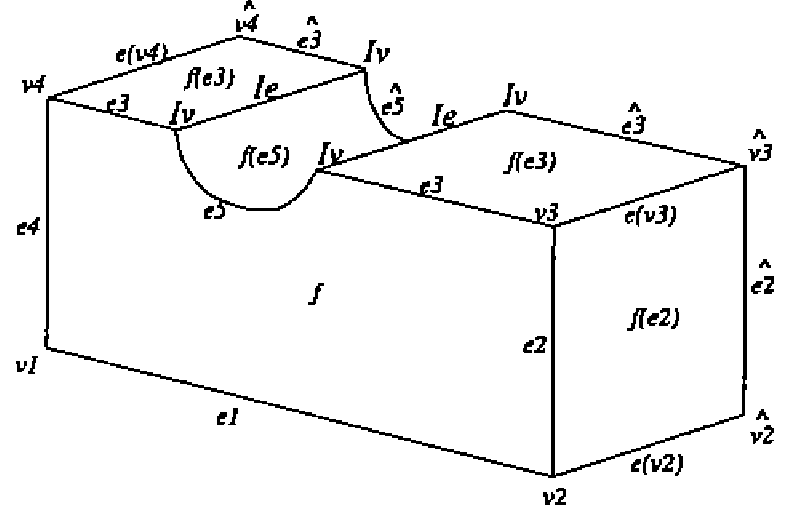
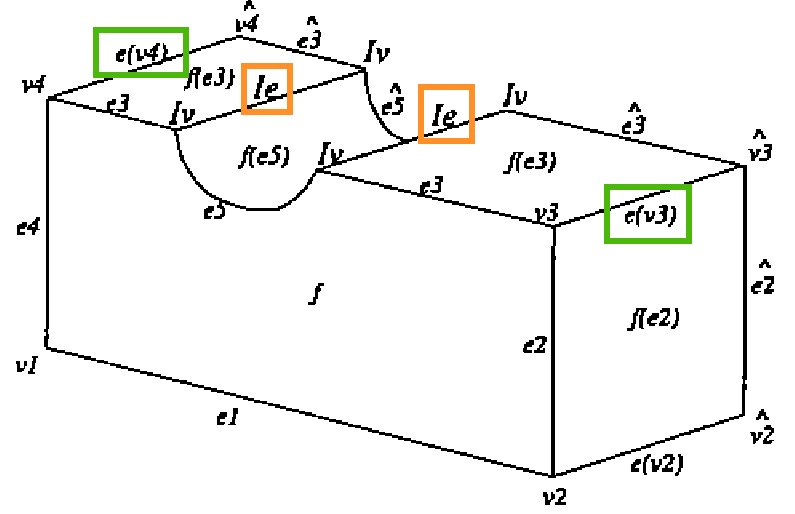
almost done!

diff --git a/manuscript/parts/chapitres-reevaluation/etat-art/section-reevaluation.tex b/manuscript/parts/chapitres-reevaluation/etat-art/section-reevaluation.tex
@@ -724,8 +724,8 @@ agrégats que les coques. %
 Il existe donc, dans les systèmes de modélisation paramétrique un manque à
 combler en ce qui concerne la nomination des volumes, agrégats et autres entités
 de dimension supérieures aux faces. %
-Permettre leurs nomination permettrait aux utilisateurs de logiciel CAO d'avoir
-plus de libertés dans leurs processus constructifs. %
+Permettre leur nomination offrirait aux utilisateurs de logiciels CAO
+une plus grande marge de man\oe uvre dans leurs processus constructifs. %
 
 
 \subsubsection{Systèmes de nominations persistantes}
@@ -752,7 +752,8 @@ persistante. %
 Le nom d'une face, \(faceId\), est défini par~:
 \[FaceId(f) = [stepId,faceIndex,surfaceType]\] %
 où \(stepId\) est le numéro d'application de l'opération qui crée \(f\),
-\(faceIndex\) l'index de \(f\) et \(surfaceType\) le type de surface de \(f\). %
+\(faceIndex\) l'index de \(f\) et \(surfaceType\) le type de surface de \(f\) (plan, tore,…).
+\xavier{pour Maxime : donne des exemples de types de surfaces.}%
 
 Le nom d'une arête, \(edgeId\), est défini par~:
 \[EdgeId(e) = [adjFaceIds,endFaceIds_{0,1},edgeIntersCode]\] %
@@ -760,9 +761,8 @@ où \(adjFaceIds\) est une liste des faces incidentes à \(e\), cette liste est
 ordonnée selon un parcours de voisinage~; \(endFaceIds_{0}\) (respectivement
 \(endFaceIds_{1}\)) est l'ensemble des faces à l'extrémité \(0\) (respectivement
 \(1\)) de \(e\)~; et \(edgeIntersCode\) un code d'intersection basé sur la
-position relative, et non absolue, des faces incidentes à \(e\), ce qui rend le
-code insensible aux transformations telles que le déplacement et le changement
-d'échelle. %
+position relative des faces incidentes à \(e\), ce qui rend le code insensible
+aux transformations telles que le déplacement et le changement d'échelle. %
 
 Le nom d'un sommet, \(vertexId\), est défini par~:
 \[VertexId(v) = [adjFaceIds,vertexIntersCodes]\] %
@@ -803,8 +803,6 @@ Il propose un système de nomination persistante, un DAG pour suivre l'évolutio
 des faces et un mécanisme d'appariement des entités. %
 Toutefois, ce système présente des inconvénients. %
 Chaque type d'entité topologique à un schéma de nomination différent, ce qui en fait un système compliqué à mettre en \oe uvre et qui n'est pas généralisable en dimensions. %
-En effet, pour les dimensions d'ordre supérieur, il faudrait changer tout le
-schéma de nomination. %
 L'appariement s'appuie en partie sur le voisinage (pour rappel des faces) pour estimer la similitude entre deux entités. %
 Une limite de cette approche est le cas où tout le voisinage d'une entité serait modifié. %
 Dans ce cas, il n'est pas certain qu'il soit possible de poursuivre la réévaluation. %
@@ -839,9 +837,9 @@ opérations~:
 	\label{fig:etat-art-reevaluation-systemes-capoylease-generated-entities}
 \end{figure}
 
-Ce système propose que les entités issues d'une extrusion, des entités
-invariantes, soient nommées par rapport à leur ancêtre invariant dans le
-profil. %
+Ce système propose que les entités issues d'une extrusion% , des entités
+% invariantes,
+soient nommées par rapport à leur ancêtre invariant dans le profil. %
 Prenons, l'exemple illustré dans la
 figure~\ref{fig:etat-art-reevaluation-systemes-capoylease-generated-entities} et
 plus particulièrement le profil
@@ -849,10 +847,12 @@ plus particulièrement le profil
 extrusion
 (figure~\ref{fig:etat-art-reevaluation-systemes-capoylease-extruded-part}). %
 Les entités du profil sont nommées par type d'entité et de manière incrémentale,
-prenons, par exemple, l'arête \(e_{1}\) et le sommet \(v_{3}\). %
-Suite à l'extrusion, la face de côté générée à partir de \(e_{1}\) est nommée
-\(f(e_{1})\) et l'arête générée à partir de \(v_{3}\) est nommée \(e(v_{3})\). %
-
+prenons, par exemple, la face \(f\), l'arête \(e_{3}\) et le sommet \(v_{2}\). %
+Suite à l'extrusion, la face opposée à \(f\) et notée \(\hat{f}\) et la face
+d'arrivée de l'extrusion, la face de côté générée à partir de \(e_{3}\) est nommée
+\(f(e_{3})\) et l'arête générée à partir de \(v_{2}\) est nommée \(e(v_{2})\). %
+\xavier{3. La figure est FAUSSE ! La face sur le côté droit est étiquetée f(e4)
+	alors qu'elle est issue de e2 => refaire la figure correctement.}
 \begin{figure}[htb!]
 	\centering
 	\includegraphics[height=150pt]{capoyleas-cut-part}
@@ -894,7 +894,9 @@ Le contexte est étendu de cette manière jusqu'à trouver une classe d'équival
 unique qui permette alors de discriminer une entité dont le nom est partagé. %
 Prenons, par exemple, les deux arêtes \(I_e\) de la
 figure~\ref{fig:etat-art-reevaluation-systemes-capoyleas-cut-part}. %
-À terme, pour la première entité \(I_{e}\), nous obtenons~:
+\xavier{De manière générale, sur la figure, il faudrait faire ressortir les
+	entités que tu évoques. Par exemple, on a du mal à repérer cette arête
+	\(I_e\).} À terme, pour la première entité \(I_{e}\), nous obtenons~:
 \begin{flalign*}
 	I_{e} & :                                                                                                       \\
 	      & [0,I_{e},1],                                                                                            \\
@@ -1054,12 +1056,6 @@ impossible, à généraliser dans d'autres dimensions. %
 
 \subsubsection*{Bidarra}
 
-% Bidarra et al.~\cite{bidarra2005feature} estiment qu'une difficulté majeure dans
-% les systèmes de nomination existants est le fait nommer des entités qui peuvent
-% disparaître lors de la réévaluation. %
-% Ainsi, les auteurs proposent un système de nomination basé sur les
-% caractéristiques de forme dans lequel un nom persistant est maintenu quelle que
-% soit la spécification paramétrique réévaluée. %
 
 Bidarra et al.~\cite{bidarra2005feature} suggèrent que le problème de la
 nomination est généralement abordé avec une solution incomplète, voire
@@ -1348,6 +1344,7 @@ Afin de saisir les intentions de conception, les noms persistants sont définis
 par les utilisateurs, pendant la conception du modèle paramétrique, à l'aide de
 requêtes, comme illustré dans la
 figure~\ref{fig:etat-art-reevaluation-systemes-nomination-cascaval-requetes}. %
+\xavier{Dans la figure 1.28, le "u" de $edges(u)$ devrait être en majuscule.} %
 Ces requêtes permettent aux utilisateurs de contraindre l'appariement des
 entités topologiques passées en paramètres des opérations. %
 Les entités sont alors identifiées par rapport à un ou plusieurs ancêtres qui
@@ -1365,7 +1362,7 @@ sous-ensemble et de dérivation pour exprimer au mieux ses intentions de
 modélisation, par exemple \texttt{deriveFrom|All|Any}. %
 
 L'outil développé par Cascaval et al. permet de travailler principalement sur
-des objets 2D avec des opérations principalement 2D. %
+des objets et des opérations principalement en 2D. %
 Le passage à la 3D implique que le traitement des voisinages topologiques sera
 nécessairement plus complexe. %
 
@@ -1423,12 +1420,10 @@ Néanmoins, cette approche présente plusieurs inconvénients~:
 	      que les problèmes de nomination et d'appariement apparaissent. %
 \end{itemize}
 
+
 \subsubsection*{Cardot}
 \label{sec:etat-art-reevaluation-synthese-cardot}
 
-% Ici, présenter les apports issus des travaux d'Anaïs Cardot. (Objectif) placer
-% les fondamentaux de la méthode proposé pour présenter l'apport de mes travaux
-% par rapport aux siens.
 
 Dans la littérature, les travaux de Cardot~\cite{cardot2019} sont les premiers à
 proposer une solution à la nomination persistante basée sur des règles de
@@ -1452,9 +1447,9 @@ L'identification persistante des brins est justifiée par les propriétés
 suivantes~:
 \begin{enumerate}
 	\item un brin est l'entité topologique de plus petite dimension, et donc
-				indivisible, dans une G-carte~;
+	      indivisible, dans une G-carte~;
 	\item un brin créé par une règle ne peut qu'être créé \textit{ex nihilo} ou
-	par copie d'un autre brin. %
+	      par copie d'un autre brin. %
 \end{enumerate}
 Avec ces propriétés en tête, Cardot propose de définir un identifiant persistant
 (noté \emph{PI}) d'après l'histoire d'un brin, c'est-à-dire l'ensemble des
@@ -1482,16 +1477,16 @@ persistant du brin copié auquel s'ajoute sa propre histoire. %
 \begin{figure}[h!]
 	\centering
 	\begin{subfigure}{.45\textwidth}
-	\centering
+		\centering
 		\includegraphics[width=.8\textwidth]{cardot-regle-carre}
 		\caption{}
-	\label{fig:etat-art-reevaluation-synthese-cardot-exemples-regles-carre}
+		\label{fig:etat-art-reevaluation-synthese-cardot-exemples-regles-carre}
 	\end{subfigure}
 	\begin{subfigure}{.45\textwidth}
-	\centering
+		\centering
 		\includegraphics[width=.6\textwidth]{cardot-regle-triangulation}
 		\caption{}
-	\label{fig:etat-art-reevaluation-synthese-cardot-exemples-regles-triangulation}
+		\label{fig:etat-art-reevaluation-synthese-cardot-exemples-regles-triangulation}
 	\end{subfigure}
 	\caption{Exemples de règles Jerboa par Cardot}
 	\label{fig:etat-art-reevaluation-synthese-cardot-exemples-regles}
@@ -1574,10 +1569,87 @@ des opérations ont été ajoutés, supprimées ou encore déplacées dans l'éd
 de la spécification paramétrique. %
 
 
-\subsubsection{Synthèse des méthodes}
+\subsubsection*{Synthèse}
 \label{sec:etat-art-reevaluation-synthese}
 
-Faire un tableau de comparatif des méthodes utilisées par chaque publication.
+
+\begin{table}[ht!]
+	\centering
+	\begin{tabular}{|c|p{.28\textwidth}|p{.22\textwidth}|p{.28\textwidth}|}
+		\hline %
+		Auteur                                           & Approches                                                       & Avantages                                                                       & Inconvénients     \\
+		\hline %
+		\hline %
+		Kripac                                           & Nomination à base de faces                                      & Suivi explicite de toutes les faces                                             & Pas généralisable \\
+		\hline %
+		Capoyleas et al.                                 & Discrimination par l'orientation des sommets et arêtes          & c                                                                               & Pas généralisable \\
+		\hline %
+		Wu et al.                                        & Nomination à base de faces                                      & c                                                                               & Pas généralisable \\
+		\hline %
+		Bidarra et al.                                   & Nomination à base de faces                                      & c                                                                               & Pas généralisable \\
+		\hline %
+		Cardot et al.                                    & Formalisation des objets et des opérations
+		\par Suivi statique des changements topologiques & Générique                                                       & Suivi incomplet des entités, il peut subsister des cas topologiquement ambiguës                     \\
+		\hline %
+		Cascaval et al.                                  & Définition d'un langage dédié~;
+		                                                 & Nom et appariement
+		\par explicites                                  & L'utilisateur est responsable de la persistance des contraintes                                                                                                       \\
+		\hline %
+	\end{tabular}
+\end{table}
+
+\subsection{Conclusion}
+
+Dans ce chapitre, nous avons commencé par présenter les outils que nous
+utiliserons tout au long de cette thèse pour formaliser les objets et les
+opérations de modélisation géométrique. Puis, nous avons passé en revue un état
+de l'art des systèmes de réévaluation proposés dans la littérature et des
+problèmes qu'ils tentent de résoudre, parmi lesquels se trouve la nomination
+persistante des entités topologiques, leurs appariements dans la réévaluation
+d'une spécification paramétrique éditée et parfois l'appariement d'entités pour
+lesquelles la topologie est devenue insuffisante pour les distinguer les unes
+des autres . %
+Nous avons pu voir qu'une grande partie de ces systèmes ont développé un système
+de nomination persistante en utilisant les faces comme entités de base pour
+nommer les autres. %
+Ce choix est compréhensible dans la mesure où, pour un modeleur spécialisé dans
+la modélisation 3D, les faces sont des entités qui sont soit crées comme des
+pièces «~élémentaires~» (entité caractéristique, profil d'extrusion, … ) soit
+créées à partir d'autres faces, et donc avec sources, dans des opérations
+booléennes (intersection de volumes, de faces co-planaires) ce qu'il permet de
+suivre aisément leurs évolutions tout au long d'un processus constructif. %
+Néanmoins ces méthodes ont pour inconvénients d'être rigides et d'inciter à
+développer un schéma de nomination différent pour chaque entité topologique. %
+La conséquence étant qu'il est difficile de généraliser de telles méthodes pour
+des modeleurs qui travaillent avec des dimensions supérieures à la 3D. %
+Certains systèmes proposent d'intégrer des informations purement géométriques
+afin de garantir la distinction des entités topologiques partageant un même nom
+basé sur leurs topologies respectives. %
+Certaines approches proposent une distinction basée sur l'orientation des arêtes
+et sommets dans l'objet modélisé ou encore de classer les entités en fonction de
+leur ordre d'apparition dans un espace paramétrique \(u,v\). %
+D'autres systèmes proposent des solutions qui se distinguent l'approche choisie
+comme la création d'un langage spécifique au développement de modèles
+paramétrique avec une nomination persistante définie comme un jeu de contraintes
+ou encore la formalisation d'un objet et des opérations de modélisation
+géométriques pour proposer un suivi de tout type d'entité et un schéma de
+nomination persistante générique. %
+
+Dans cette thèse, nous étendons les travaux de Cardot et al. afin de proposer un
+suivi riche des changements topologiques qui impactent les entités topologiques
+enregistrées dans une spécification paramétrique. %
+D'autre part, Dans la suite de ce manuscrit, nous proposons trois
+contributions. %
+La première contribution est une méthode qui permet la détection des changements
+topologiques pour toutes entités topologiques statiquement à partir des seules
+règles Jerboa. %
+Notre deuxième contribution est la mise en \oe uvre d'un système de réévaluation
+basé sur les règles Jerboa. %
+Enfin, nous étendons ce système de réévaluation à des scripts qui permettent de
+structure des règles Jerboa à l'aide de structures de contrôle et plus
+particulièrement des itérations de sous-orbites et des structures
+conditionnelles. %
+
 
 %%% Local Variables:
 %%% mode: latex
